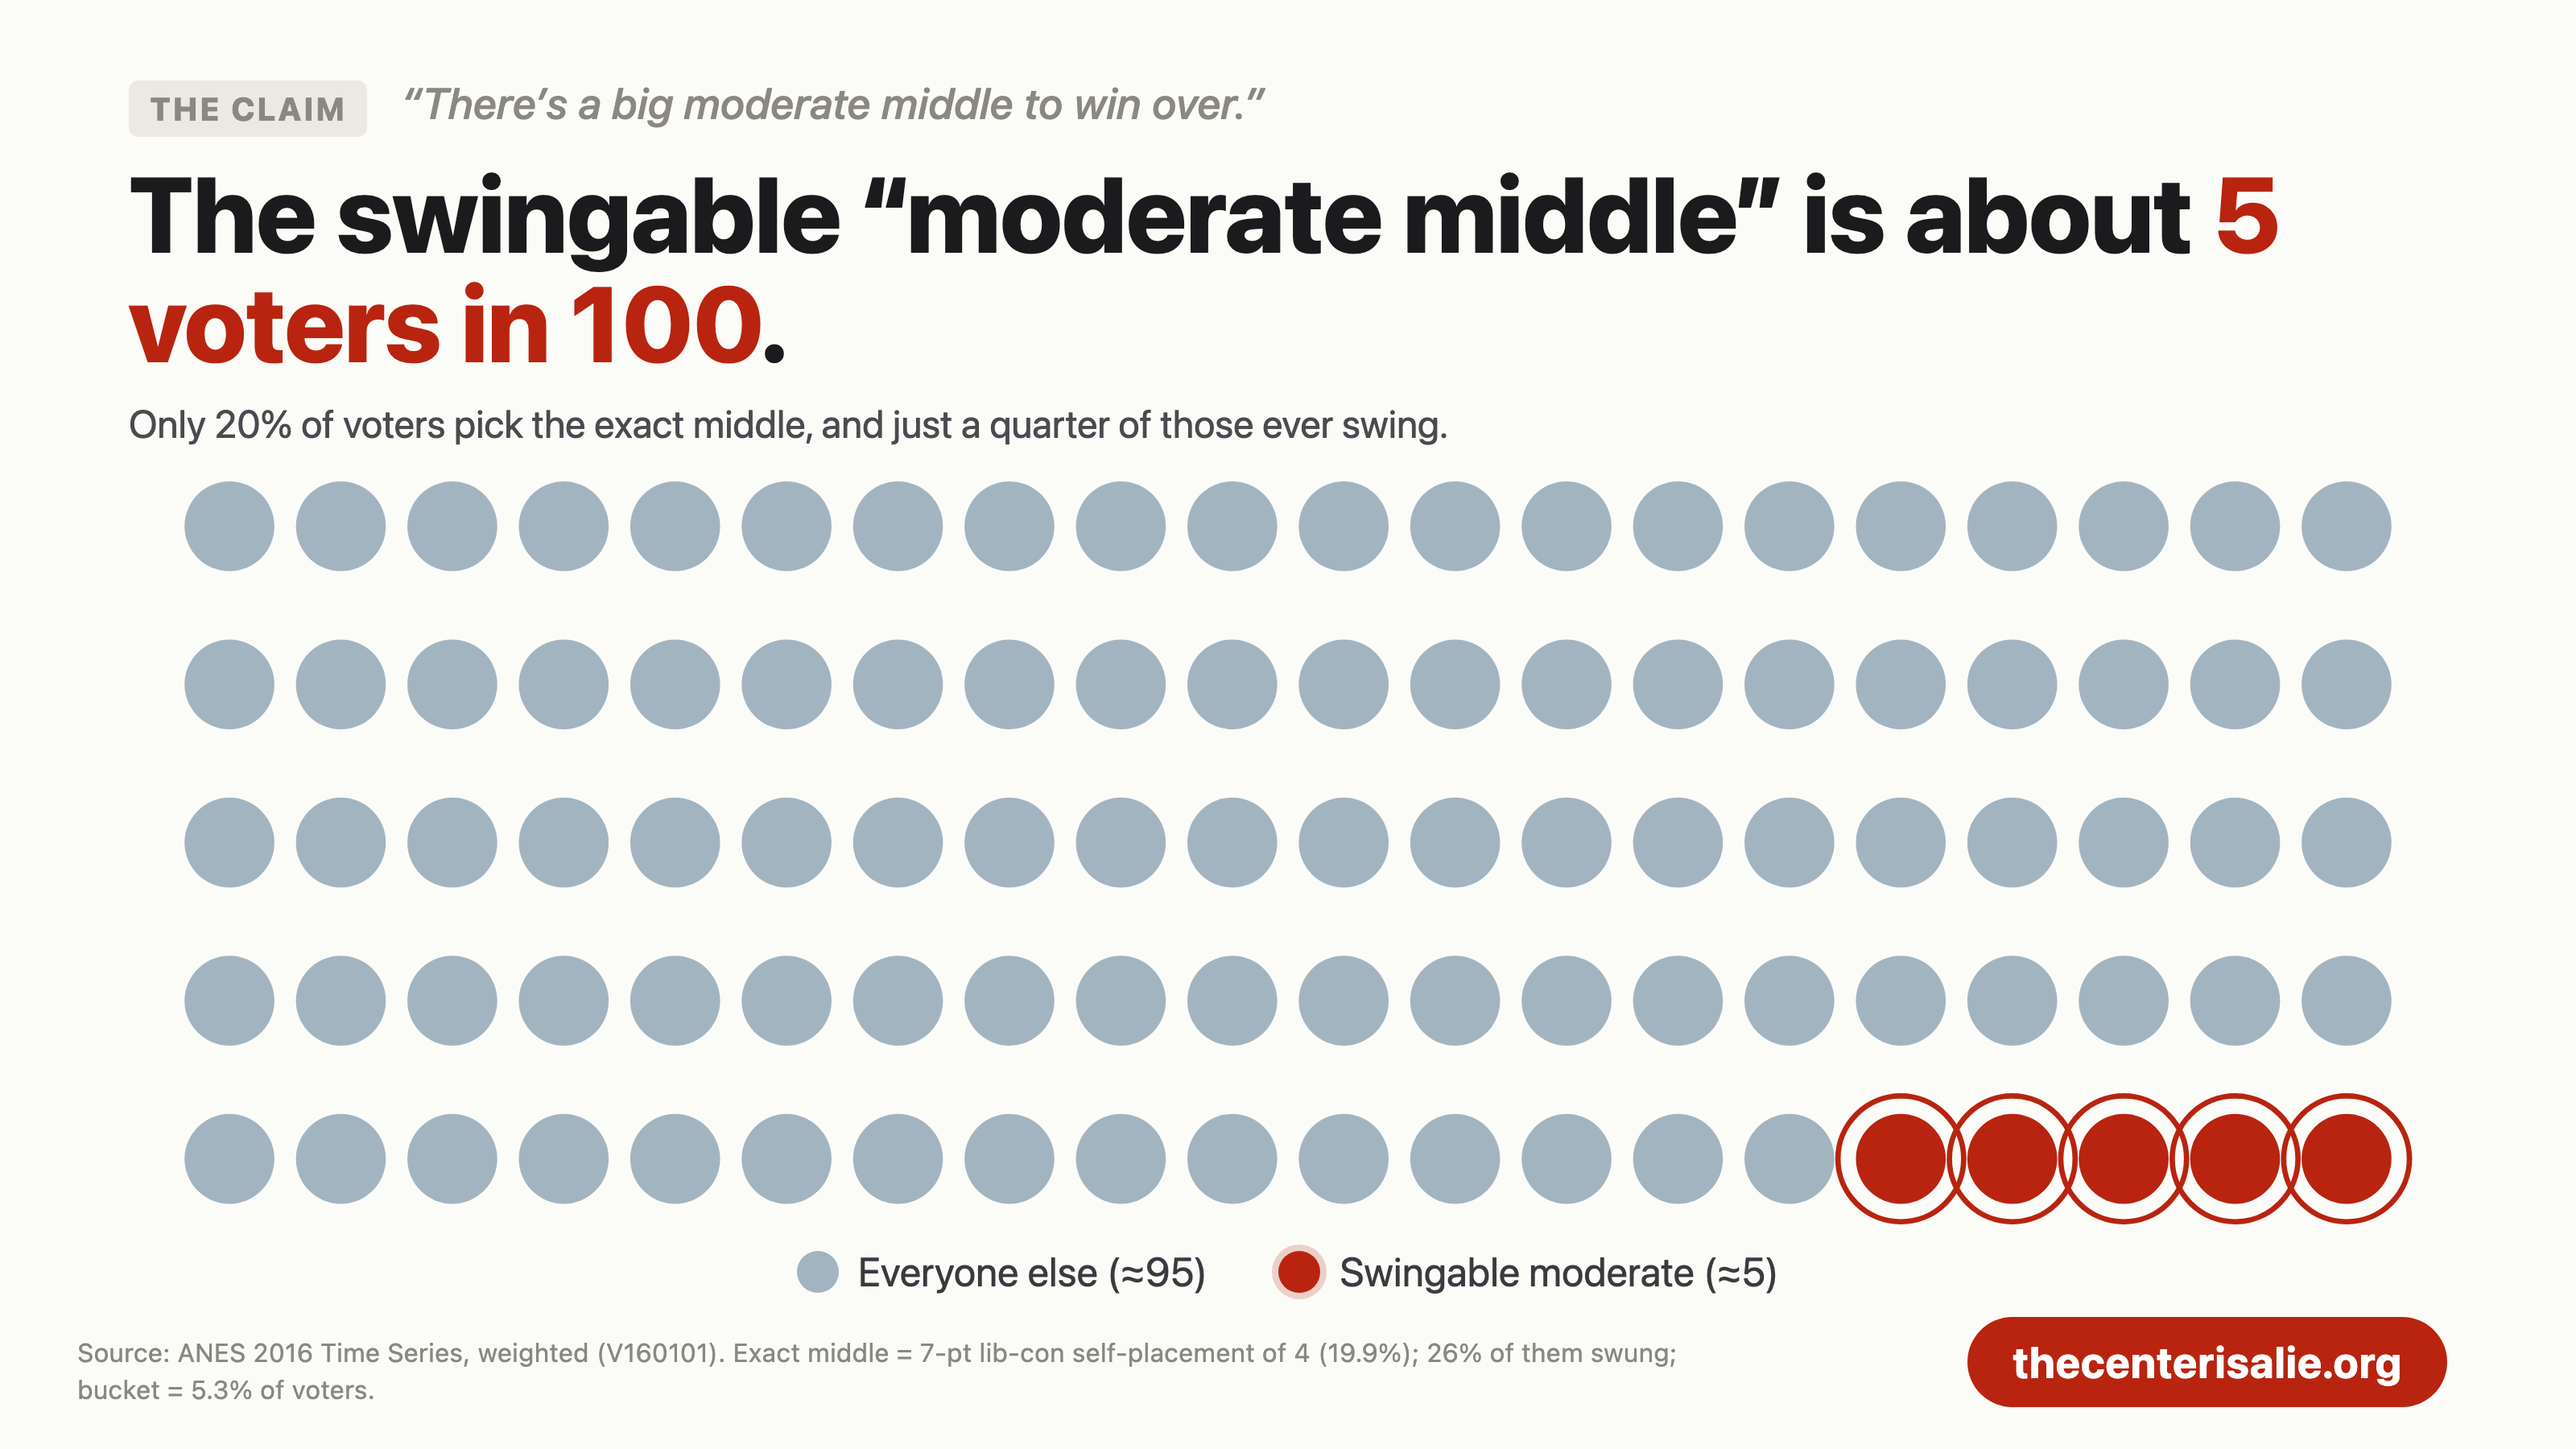
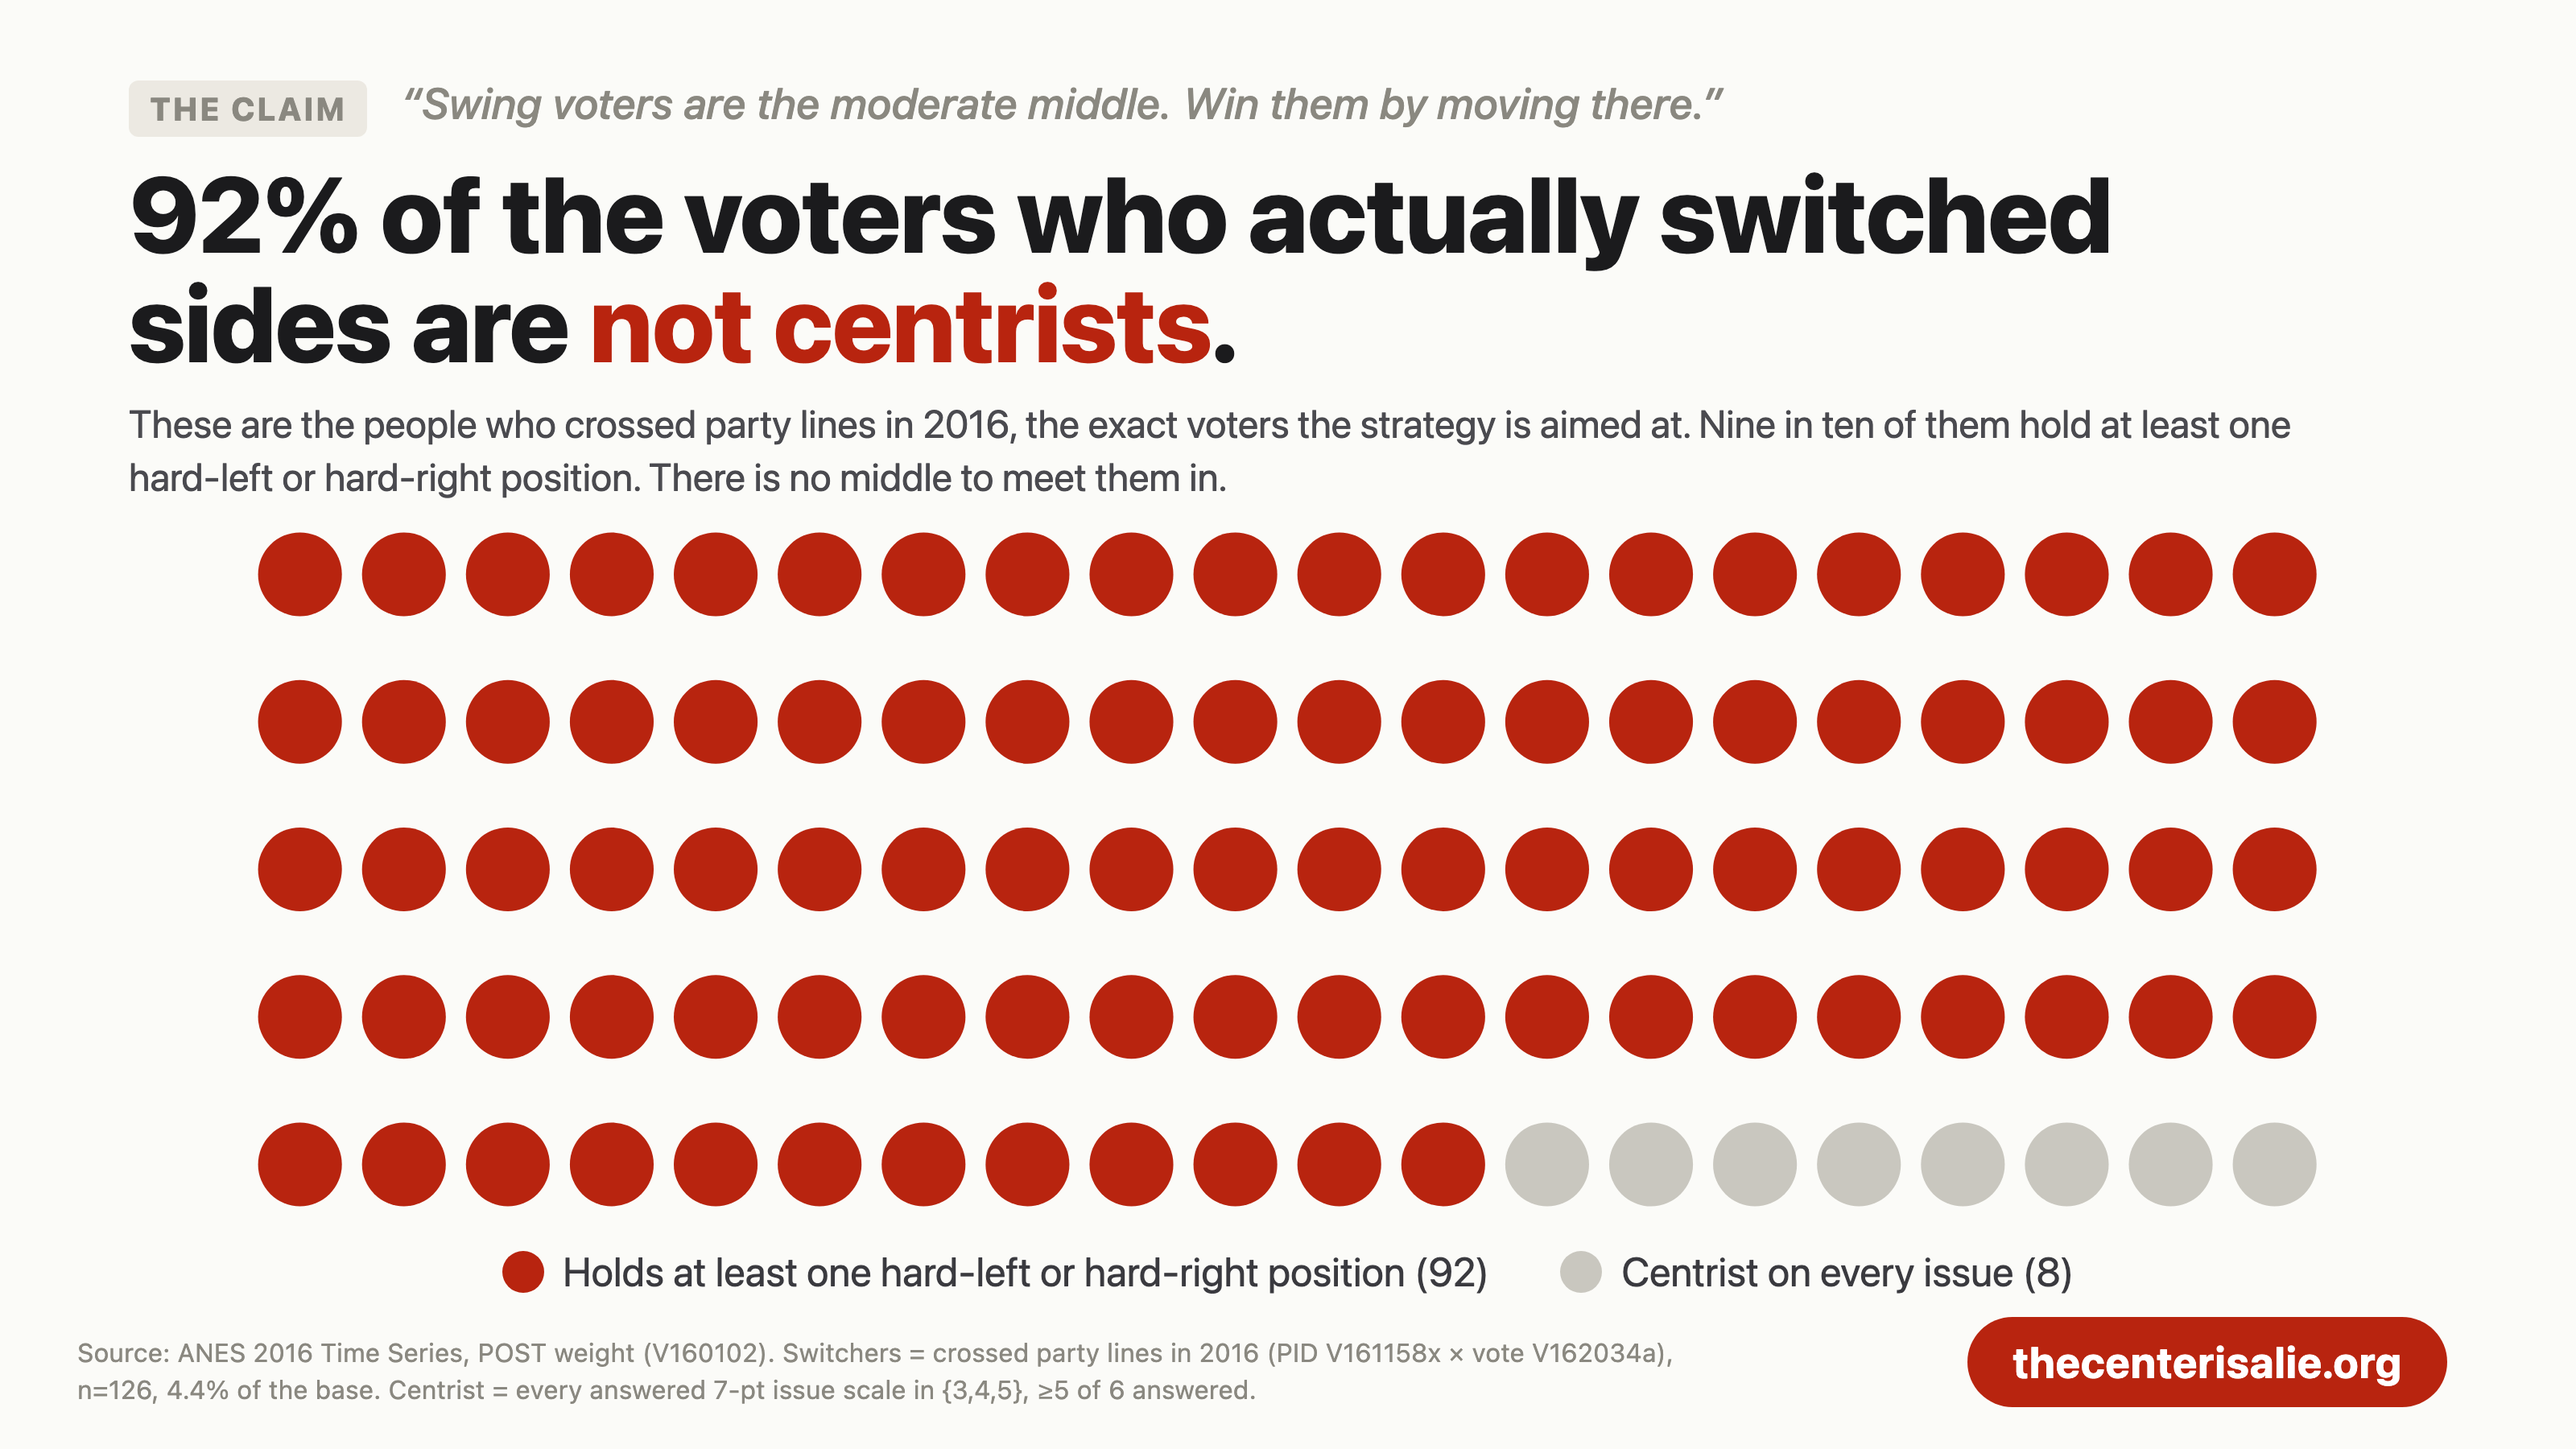
feat(og): rebuild mirage around the 92% non-centrist switchers
The old framing conceded the argument: "the swingable middle is 5 voters in
100" invites "great, those are the 5 we need." Reframed to attack the premise
instead. Among the voters who actually crossed party lines in 2016, 91.7% hold
at least one hard-left or hard-right position; only 8.3% are centrist across
the board.

Also resolves the swing-definition discrepancy flagged earlier. The essay's
n=126 / 4.4% reproduces exactly once the COMMON BASE from
scripts/build_center_overlap_matrix.py is applied (non-null self-placement,
policy mean, PID and vote). My earlier n=178 omitted that base. The essay was
right; nothing upstream needs changing.

diff --git a/web/og-cards/chart-mirage.html b/web/og-cards/chart-mirage.html
@@ -2,25 +2,26 @@
 <html lang="en"><head><meta charset="utf-8"><link rel="stylesheet" href="./chart-card.css"></head>
 <body>
   <div class="chartcard">
-    <div class="cc-claim"><span class="tag">The claim</span> &ldquo;There&rsquo;s a big moderate middle to win over.&rdquo;</div>
-    <div class="cc-title">The swingable &ldquo;moderate middle&rdquo; is about <span class="hl">5 voters in 100</span>.</div>
-    <div class="cc-sub">Only 20% of voters pick the exact middle, and just a quarter of those ever swing.</div>
+    <div class="cc-claim"><span class="tag">The claim</span> &ldquo;Swing voters are the moderate middle. Win them by moving there.&rdquo;</div>
+    <div class="cc-title">92% of the voters who actually switched sides are <span class="hl">not centrists</span>.</div>
+    <div class="cc-sub">These are the people who crossed party lines in 2016, the exact voters the strategy is aimed at. Nine in ten of them hold at least one hard-left or hard-right position. There is no middle to meet them in.</div>
 
     <div class="cc-chart"><svg id="mirage" viewBox="0 0 1290 436" role="img"
-      aria-label="Waffle of 100 dots in 20 by 5; the last 5 highlighted as swingable moderates"></svg></div>
+      aria-label="Of 100 voters who crossed party lines in 2016, 92 hold at least one extreme issue position and 8 are centrist across the board"></svg></div>
 
     <div class="cc-legend">
-      <div class="item"><span class="dot" style="background:#a3b4c1"></span>Everyone else (≈95)</div>
-      <div class="item"><span class="dot dot--ring" style="background:#b8240f"></span>Swingable moderate (≈5)</div>
+      <div class="item"><span class="dot" style="background:#b8240f"></span>Holds at least one hard-left or hard-right position (92)</div>
+      <div class="item"><span class="dot" style="background:#c9c7bf"></span>Centrist on every issue (8)</div>
     </div>
 
     <div class="cc-foot">
-      <div class="cc-source">Source: ANES 2016 Time Series, weighted (V160101). Exact middle = 7-pt lib-con self-placement of 4 (19.9%); 26% of them swung; bucket = 5.3% of voters.</div>
+      <div class="cc-source">Source: ANES 2016 Time Series, POST weight (V160102). Switchers = crossed party lines in 2016 (PID V161158x &times; vote V162034a), n=126, 4.4% of the base. Centrist = every answered 7-pt issue scale in {3,4,5}, &ge;5 of 6 answered.</div>
       <div class="cc-btn">thecenterisalie.org</div>
     </div>
   </div>
 
   <script>
+    // 100 dots = 100 party-line crossers. 92 hold an extreme position, 8 don't.
     const NS = 'http://www.w3.org/2000/svg';
     const svg = document.getElementById('mirage');
     const el = (t, a) => { const n = document.createElementNS(NS, t); for (const k in a) n.setAttribute(k, a[k]); return n; };
@@ -28,9 +29,8 @@
     const x0 = (1290 - (COLS - 1) * sx) / 2, y0 = (436 - (ROWS - 1) * sy) / 2;
     for (let i = 0; i < 100; i++) {
       const cx = x0 + (i % COLS) * sx, cy = y0 + ((i / COLS) | 0) * sy;
-      const swing = i >= 95;            // last 5 = swingable moderates
-      svg.appendChild(el('circle', { cx, cy, r, fill: swing ? '#b8240f' : '#a3b4c1' }));
-      if (swing) svg.appendChild(el('circle', { cx, cy, r: r + 10, fill: 'none', stroke: '#b8240f', 'stroke-width': 3 }));
+      const centrist = i >= 92;
+      svg.appendChild(el('circle', { cx, cy, r, fill: centrist ? '#c9c7bf' : '#b8240f' }));
     }
   </script>
 </body></html>
